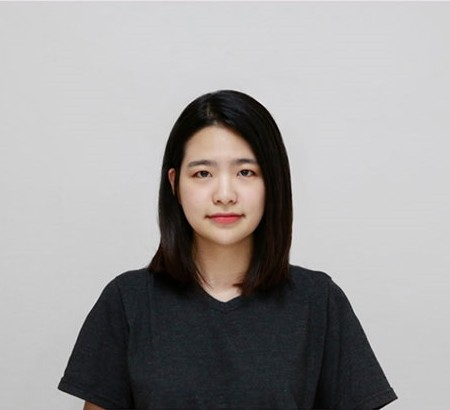
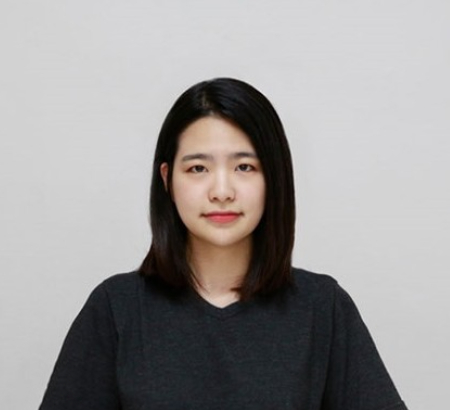
홈페이지 입니다

diff --git a/index.html b/index.html
@@ -74,7 +74,17 @@
             <h2 class="tit">ptofile</h2>
             <div class="container clearfix">
                 <div class="profile-1">
-                    <img src="images/profile-1.png" alt="">
+                    <!-- <img src="images/profile-1.png" alt=""> -->
+                    <div class="profile-1-top">
+                        <img src="images/profile-1.jpg" alt="">
+                    </div>
+                    <div class="profile-1-bottom clearfix">
+                        <span></span>
+                        <p>익숙한것에 감사하고<br>
+                            새로운 도전을 즐길 줄 아는<br>
+                            디자이너 장하은입니다.
+                        </p>
+                    </div>
                 </div>
                 <div class="profile-2">
                     <!-- <img src="images/profile-2.png" alt=""> -->
@@ -207,9 +217,9 @@
                                 사용프로그램 - Photosop/Illustrator
                             </p>
                             <span class="rede-line-1"></span>
-                            <a href="#" class="rede-process-bt">Process</a>
+                            <a href="https://haeun0.github.io/rede-idea-process/" target="blank" class="rede-process-bt">Process</a>
                             <span class="rede-line-2"></span>
-                            <a href="#" class="rede-work-bt">Work</a>
+                            <a href="https://haeun0.github.io/rede-idea/" target="blank" class="rede-work-bt">Work</a>
                         </div>
                         <div class="rede-cont-box">
                             <h2>EDIYA COFFEE2</h2>
@@ -245,17 +255,17 @@
                             <div class="swiper-wrapper">
                                 <div class="swiper-slide">
                                     <div class="sw-rede-box">
-                                        <img src="images/rede-01.png" alt="">
+                                        <img src="images/rede-0111.png" alt="">
                                     </div>
                                 </div>
                                 <div class="swiper-slide">
                                     <div class="sw-rede-box">
-                                        <img src="images/rede-01.png" alt="">
+                                        <img src="images/rede-0111.png" alt="">
                                     </div>
                                 </div>
                                 <div class="swiper-slide">
                                     <div class="sw-rede-box">
-                                        <img src="images/rede-01.png" alt="">
+                                        <img src="images/rede-0111.png" alt="">
                                     </div>
                                 </div>
                             </div>
@@ -578,14 +588,16 @@
 
 
                 <div class="others-video clearfix">
-                    <div class="others-video-link">
-                        <a href="#" target="blank"></a>
+                    <div class="others-video-link video-1">
+                        <a href="https://youtu.be/JJ1OkJ1Wtgk" target="blank">
                     </div>
-                    <div class="others-video-link">
-                        <a href="#" target="blank"></a>
+                    <div class="others-video-link video-2">
+                        <a href="https://youtu.be/HiZOmZtnbUI" target="blank">
+                        </a>
                     </div>
-                    <div class="others-video-link">
-                        <a href="#" target="blank"></a>
+                    <div class="others-video-link video-3">
+                        <a href="https://youtu.be/zS23GJvoqEU" target="blank">
+                        </a>
                     </div>
                 </div>
 

diff --git a/css/main.css b/css/main.css
@@ -233,7 +233,7 @@ body {
     text-align: center;
 }
 
-.menu > li:last-child {
+.menu>li:last-child {
     margin-right: 0;
 }
 
@@ -304,6 +304,42 @@ body {
     width: 33%;
 }
 
+.profile-1-top {
+    position: relative;
+    display: block;
+    width: 100%;
+    margin-bottom: 2rem;
+}
+
+.profile-1-bottom {
+    position: relative;
+    display: block;
+    width: 100%;
+    height: 10rem;
+}
+
+.profile-1-bottom span {
+    position: relative;
+    float: left;
+    display: block;
+    width: 0.2rem;
+    height: 100%;
+    background-color: #5d4b63;
+    margin-right: 1rem;
+}
+
+.profile-1-bottom p {
+    position: relative;
+    float: left;
+    display: block;
+    font-size: 2.5rem;
+    font-weight: 500;
+    color: #333;
+    line-height: 1.35;
+    letter-spacing: -0.0425rem;
+    font-family: 'Noto Sans KR', sans-serif;
+}
+
 .profile-2 {
     padding-left: 10rem;
     position: relative;
@@ -324,7 +360,7 @@ body {
     display: block;
     width: 100%;
     height: 32%;
-    margin-bottom: 18%;
+    margin-bottom: 15%;
 }
 
 .profile-txt:last-child {
@@ -771,9 +807,9 @@ body {
 
 .rede-right img {
     position: absolute;
-    left: 0;
+    left: 50%;
     top: 50%;
-    transform: translateY(-50%);
+    transform: translate(-50%, -50%);
 }
 
 
@@ -1062,18 +1098,35 @@ body {
     width: 33%;
     height: 100%;
     margin-right: 0.5%;
-    background: url('../images/video-1.jpg') no-repeat;
-    background-size: cover;
     cursor: pointer;
 }
 
+.video-1 {
+    background: url('../images/video-1.jpg') no-repeat;
+    background-size: cover;
+}
+
+.video-2 {
+    background: url('../images/video-2.jpg') no-repeat;
+    background-size: cover;
+}
+
+.video-3 {
+    background: url('../images/video-3.jpg') no-repeat;
+    background-size: cover;
+}
 
 
 .others-video-link:last-child {
     margin-right: 0;
 }
 
-
+.others-video-link a {
+    position: relative;
+    display: block;
+    width: 100%;
+    height: 100%;
+}
 
 
 /* 라이프 영역 */
@@ -1186,7 +1239,7 @@ body {
     height: 88rem;
 }
 
-.footer > h2 {
+.footer>h2 {
     position: absolute;
     left: 50%;
     transform: translateX(-50%);
